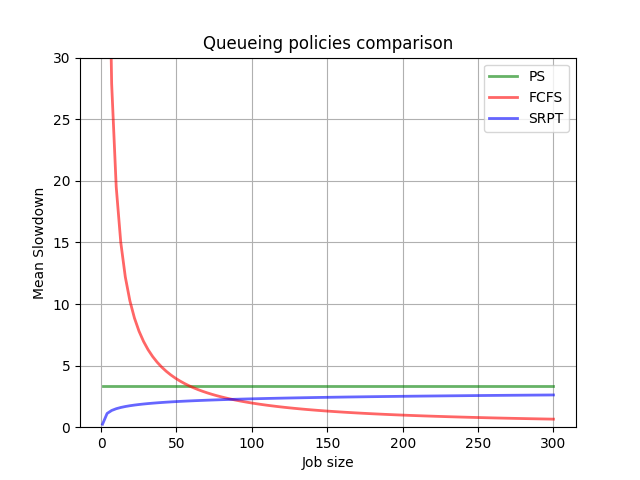
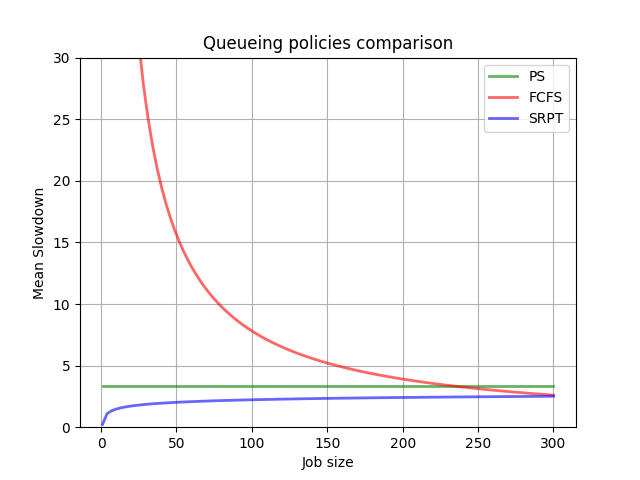
Added file loading

diff --git a/plots.py b/plots.py
@@ -1,21 +1,47 @@
 import numpy as np
 import matplotlib.pyplot as plt
+from file_loading import load_output, save_output
 from srpt import SRPT
 from fcfs import FCFS
 from processor_sharing import ProcessorSharing
+import os
 
 
 def main():
+    PS_FILE = "out/ps.csv"
+    FCFS_FILE = "out/fcfs.csv"
+    SRPT_FILE = "out/srpt.csv"
+
     ALPHA = 1.4
-    MAX_V = 10000
+    MAX_V = 100_000
     RHO = 0.7
 
     _, ax = plt.subplots(1, 1)
     ax.set_ylim(0, 30)
     x_values = np.linspace(1, 300, 100)
+    ps: list[float] = []
+    fcfs: list[float] = []
+    srpt: list[float] = []
+    if (os.path.exists(PS_FILE)):
+        _, ps = load_output(PS_FILE)
+    else:
+        ps = ProcessorSharing(
+            ALPHA, MAX_V, RHO
+        ).get_slowdowns(x_values)
+        save_output(PS_FILE, x_values, ps)
+    if (os.path.exists(FCFS_FILE)):
+        _, fcfs = load_output(FCFS_FILE)
+    else:
+        fcfs = FCFS(ALPHA, MAX_V, RHO).get_slowdowns(x_values)
+        save_output(FCFS_FILE, x_values, fcfs)
+    if (os.path.exists(SRPT_FILE)):
+        _, srpt = load_output(SRPT_FILE)
+    else:
+        srpt = SRPT(ALPHA, MAX_V, RHO).get_slowdowns(x_values)
+        save_output(SRPT_FILE, x_values, srpt)
     ax.plot(
         x_values,
-        ProcessorSharing(ALPHA, MAX_V, RHO).get_slowdowns(x_values),
+        ps,
         'g-',
         lw=2,
         alpha=0.6,
@@ -23,7 +49,7 @@ def main():
     )
     ax.plot(
         x_values,
-        FCFS(ALPHA, MAX_V, RHO).get_slowdowns(x_values),
+        fcfs,
         'r-',
         lw=2,
         alpha=0.6,
@@ -31,7 +57,7 @@ def main():
     )
     ax.plot(
         x_values,
-        SRPT(ALPHA, MAX_V, RHO).get_slowdowns(x_values),
+        srpt,
         'b-',
         lw=2,
         alpha=0.6,
@@ -44,6 +70,7 @@ def main():
     plt.legend()
     plt.savefig('plot.png')
     plt.show()
+
 
 if __name__ == "__main__":
     main()

diff --git a/file_loading.py b/file_loading.py
@@ -1,0 +1,15 @@
+def save_output(file_path: str, x_values: list[float], y_values: list[float]) -> None:
+    with open(file_path, "w") as f:
+        for x, y in zip(x_values, y_values):
+            print(f"{x},{y}", file=f)
+
+
+def load_output(file_path: str,) -> tuple[list[float], list[float]]:
+    x_values: list[float] = []
+    y_values: list[float] = []
+    with open(file_path, "r") as f:
+        for line in f.readlines():
+            x, y = line.split(",")
+            x_values.append(float(x))
+            y_values.append(float(y))
+    return x_values, y_values

diff --git a/processor_sharing.py b/processor_sharing.py
@@ -19,7 +19,7 @@ class ProcessorSharing():
 
 def main():
     ALPHA = 1.4
-    MAX_V = 10000
+    MAX_V = 100_000
     RHO = 0.7
 
     _, ax = plt.subplots(1, 1)

diff --git a/fcfs.py b/fcfs.py
@@ -36,7 +36,7 @@ class FCFS():
 
 def main():
     ALPHA = 1.4
-    MAX_V = 10000
+    MAX_V = 100_000
     RHO = 0.7
 
     _, ax = plt.subplots(1, 1)

diff --git a/srpt.py b/srpt.py
@@ -45,7 +45,7 @@ class SRPT():
 
 def main():
     ALPHA = 1.4
-    MAX_V = 10000
+    MAX_V = 100_000
     RHO = 0.7
 
     _, ax = plt.subplots(1, 1)
